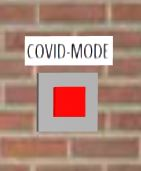
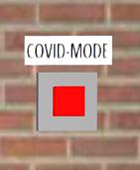
readme covid mode

diff --git a/README.md b/README.md
@@ -320,6 +320,109 @@ AFRAME.registerComponent('moveable-check', {
 <!-- Model #12 AMAZON BOX -->
 <a-gltf-model position="4.641 0.050 8.280" scale=".02 .02 .02" rotation="0 90 0" src="#box" moveable-check id="moveablebox1" class="moveable"></a-gltf-model>
 ```
+
+#### COVID-19 Mode
+
+The button labeled covid mode will toggle covid mode on and off.
+The differences is that there's a lot more Amazon boxes and Pizza boxes. Also, tape around the door meaning the person can not go outside.
+The reason behind this is because during COVID I've eaten/ordered a lot of pizza and ordered a lot from Amazon. Also I haven't been outside for awhile now.
+
+Button Base: <br/>
+![Button Base](./ReadMeAssets/covidbutton.JPG)<br/>
+Button Active: <br/>
+![Button Active](./ReadMeAssets/covidbutton2.JPG)<br/>
+
+COVD-19 Mode OFF: <br/>
+![COVD-19 Mode OFF](./ReadMeAssets/covidoff.JPG)<br/>
+COVD-19 Mode ON: <br/>
+![COVD-19 Mode ON](./ReadMeAssets/covidon.JPG)<br/>
+```
+AFRAME.registerComponent('collider-check', {
+  init: async function() {
+    this.el.addEventListener("raycaster-intersected", evt => {
+      this.intersectingRaycaster = evt.detail.el.components.raycaster;
+      setTimeout(() => {
+        if (this.intersectingRaycaster != null && sceenLoaded && !intersectedIn) {
+          switch (evt.srcElement.id) {
+
+            ..CODE...
+
+            case "covid-mode":
+              let covidmode = document.querySelector('#covid-mode-scene');
+              let covidmodeButton = document.querySelector('#covid-mode');
+              evt.srcElement.active = !evt.srcElement.active;
+              if (evt.srcElement.active) {
+                covidmode.setAttribute('visible', true);
+                covidmodeButton.setAttribute('color', '#11ff00')
+              } else {
+                covidmode.setAttribute('visible', false);
+                covidmodeButton.setAttribute('color', '#ff0000')
+              }
+              intersectedIn = true;
+              break;
+
+              ..CODE...
+            default:
+          }
+        }
+      }, 1500)
+    });
+
+  }
+});
+```
+```
+<!-- Self Created Model #6  COVID MODE-->
+<a-entity position="10 1.713 2.592" rotation="0 0 90">
+  <a-plane position=".177 .006 .007" rotation="-90 -90 0" scale=".3 .1 1" src="./assets/images/covid.jpg"></a-plane>
+  <a-box scale=".2 .05 .2" position="" color="#6e6e6e"></a-box>
+  <a-box scale=".1 .1 .1" position="0 0 0" color="#ff0000" collider-check id="covid-mode" class="lighting" active="false"></a-box>
+</a-entity>
+
+<a-entity visible="false" id="covid-mode-scene">
+  <a-entity position="0 .06 -4.6" rotation="90 0 180">
+    <a-box src="#pizzaboxsprite" scale="1 1 .1" position="0 0 0"></a-box>
+    <a-box src="#pizzaboxsprite" scale="1 1 .1" position="0 0 -.095" rotation="00 0 45"></a-box>
+    <a-box src="#pizzaboxsprite" scale="1 1 .1" position="0 0 -.201"></a-box>
+  </a-entity>
+
+  <a-entity position=".033 .06 -9.376" rotation="90 0 180">
+    <a-box src="#pizzaboxsprite" scale="1 1 .1" position="0 0 0"></a-box>
+    <a-box src="#pizzaboxsprite" scale="1 1 .1" position="0 0 -.095" rotation="00 0 45"></a-box>
+    <a-box src="#pizzaboxsprite" scale="1 1 .1" position="0 0 -.201"></a-box>
+  </a-entity>
+
+  <a-entity position="7.664 1.229 0.234" rotation="90 0 180">
+    <a-box src="#pizzaboxsprite" scale="1 1 .1" position="0 0 0"></a-box>
+    <a-box src="#pizzaboxsprite" scale="1 1 .1" position="0 0 -.095" rotation="00 0 45"></a-box>
+    <a-box src="#pizzaboxsprite" scale="1 1 .1" position="0 0 -.201"></a-box>
+  </a-entity>
+
+  <a-entity position="-9.121 .06 3.568" rotation="90 0 45">
+    <a-box src="#pizzaboxsprite" scale="1 1 .1" position="0 0 0"></a-box>
+    <a-box src="#pizzaboxsprite" scale="1 1 .1" position="0 0 -.095" rotation="00 0 45"></a-box>
+    <a-box src="#pizzaboxsprite" scale="1 1 .1" position="0 0 -.201"></a-box>
+  </a-entity>
+
+  <a-entity position="3.110 .06 9.234" rotation="90 0 0">
+    <a-box src="#pizzaboxsprite" scale="1 1 .1" position="0 0 0"></a-box>
+    <a-box src="#pizzaboxsprite" scale="1 1 .1" position="0 0 -.095" rotation="00 0 45"></a-box>
+    <a-box src="#pizzaboxsprite" scale="1 1 .1" position="0 0 -.201"></a-box>
+  </a-entity>
+  <a-entity position="-9.927 1.561 -7.540">
+    <a-box src="#cautiontape" rotation="45 0 90" scale="3 .3 .2"></a-box>
+    <a-box src="#cautiontape" rotation="-45 0 90" scale="3 .3 .2"></a-box>
+  </a-entity>
+
+
+  <a-gltf-model position="-9.279 .075 -9.600" scale=".02 .02 .02" rotation="0 90 0" src="#box"></a-gltf-model>
+  <a-gltf-model position="-9.279 .808 -9.600" scale=".02 .02 .02" rotation="0 90 0" src="#box"></a-gltf-model>
+  <a-gltf-model position="-9.279 .075 -8.858" scale=".02 .02 .02" rotation="0 90 0" src="#box"></a-gltf-model>
+  <a-gltf-model position="-8.544 .075 -9.6" scale=".02 .02 .02" rotation="0 90 0" src="#box"></a-gltf-model>
+  <a-gltf-model position="-9.279 .808 -8.858" scale=".02 .02 .02" rotation="0 90 0" src="#box"></a-gltf-model>
+  <a-gltf-model position="-7.802 .075 -9.594" scale=".02 .02 .02" rotation="0 90 0" src="#box"></a-gltf-model>
+</a-entity>
+```
 ## Sources
 
 ### Models
